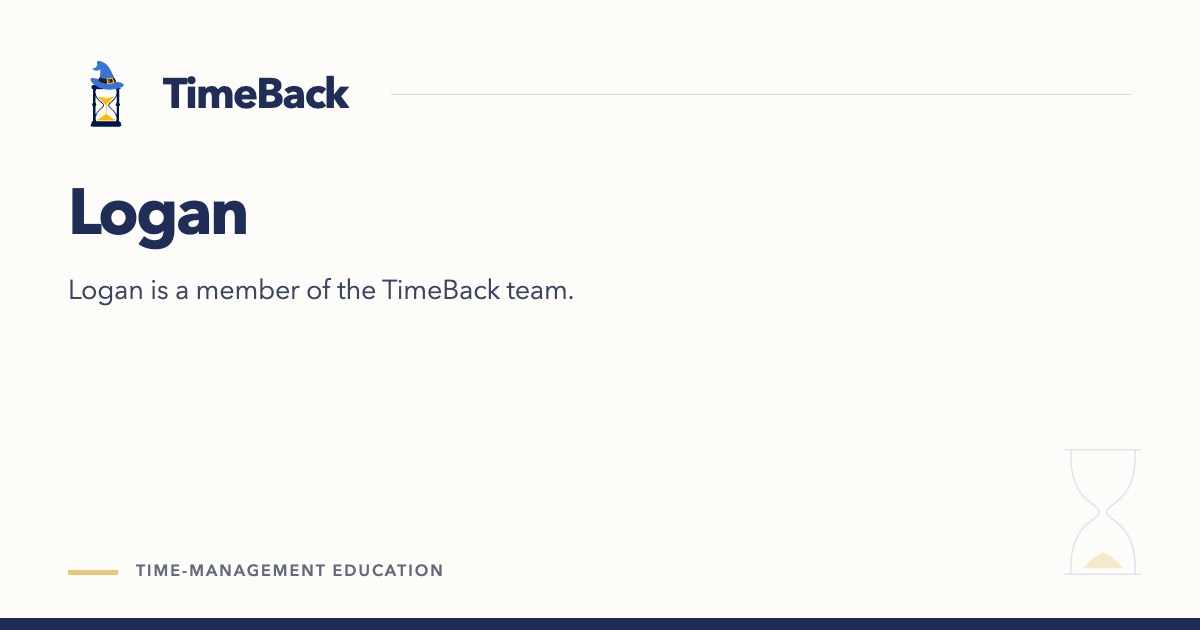
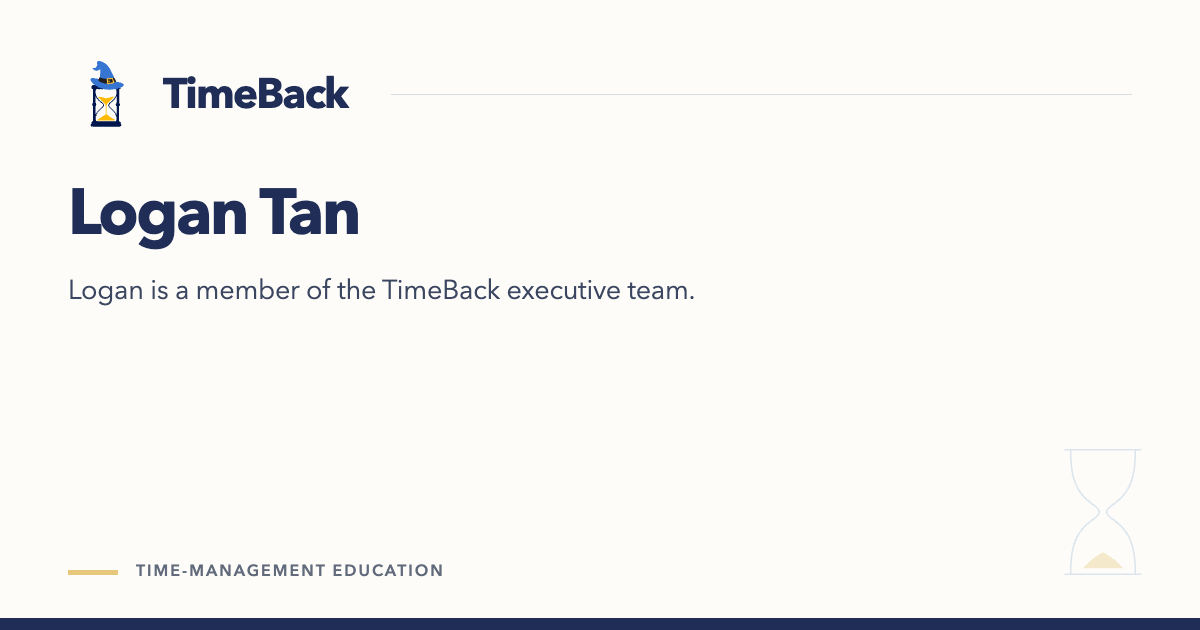
Add Daniel Szeto and Eric portrait; complete team names

Changed region(s): [[0.2158, 0.2714, 0.3083, 0.3921], [0.4008, 0.4524, 0.5858, 0.4825]]

diff --git a/work/redwood-city-library/index.html b/work/redwood-city-library/index.html
@@ -2,7 +2,7 @@
 <html lang="en"><head><meta charset="utf-8"><meta name="viewport" content="width=device-width, initial-scale=1"><meta name="robots" content="index,follow,max-image-preview:large"><title>Redwood City Public Library · TimeBack</title><meta name="description" content="A workshop in the Teen Center’s homework room brought time-management ideas into a shared conversation."><meta name="theme-color" content="#202e57"><meta property="og:title" content="Redwood City Public Library · TimeBack"><meta property="og:description" content="A workshop in the Teen Center’s homework room brought time-management ideas into a shared conversation."><meta property="og:type" content="website"><link rel="icon" type="image/svg+xml" href="/assets/timeback-logo.svg"><link rel="stylesheet" href="/assets/site.css?v=ac8a8d66ccf2"><script src="/assets/site.js?v=d495cea66d2d" defer></script><meta property="og:site_name" content="TimeBack"><meta property="og:locale" content="en_US"><meta property="og:image" content="https://jointimeback.org/assets/social/work-redwood-city-library.png"><meta property="og:image:width" content="1200"><meta property="og:image:height" content="630"><meta property="og:image:type" content="image/png"><meta property="og:image:alt" content="Redwood City Public Library · TimeBack: A workshop in the Teen Center’s homework room brought time-management ideas into a shared conversation."><meta name="twitter:card" content="summary_large_image"><meta name="twitter:title" content="Redwood City Public Library · TimeBack"><meta name="twitter:description" content="A workshop in the Teen Center’s homework room brought time-management ideas into a shared conversation."><meta name="twitter:image" content="https://jointimeback.org/assets/social/work-redwood-city-library.png"><meta name="twitter:image:alt" content="Redwood City Public Library · TimeBack: A workshop in the Teen Center’s homework room brought time-management ideas into a shared conversation."><link rel="icon" type="image/png" sizes="32x32" href="/assets/icons/favicon-32.png"><link rel="apple-touch-icon" sizes="180x180" href="/assets/icons/apple-touch-icon.png"><link rel="canonical" href="https://jointimeback.org/work/redwood-city-library/"><meta property="og:url" content="https://jointimeback.org/work/redwood-city-library/"><script type="application/ld+json">{"@context": "https://schema.org", "@graph": [{"@type": "Organization", "@id": "https://jointimeback.org/#organization", "name": "TimeBack", "url": "https://jointimeback.org/", "email": "zackaryxu@jointimeback.org", "logo": "https://jointimeback.org/assets/icons/organization.png"}, {"@type": "WebSite", "@id": "https://jointimeback.org/#website", "url": "https://jointimeback.org/", "name": "TimeBack", "publisher": {"@id": "https://jointimeback.org/#organization"}, "inLanguage": "en"}, {"@type": "WebPage", "@id": "https://jointimeback.org/work/redwood-city-library/#webpage", "url": "https://jointimeback.org/work/redwood-city-library/", "name": "Redwood City Public Library · TimeBack", "description": "A workshop in the Teen Center’s homework room brought time-management ideas into a shared conversation.", "isPartOf": {"@id": "https://jointimeback.org/#website"}, "about": {"@id": "https://jointimeback.org/#organization"}, "inLanguage": "en"}]}</script></head>
 <body class="page-work/redwood-city-library"><a class="skip-link" href="#main">Skip to content</a>
 <header class="site-header"><div class="header-inner"><a class="brand" href="/" aria-label="TimeBack home"><img src="/assets/timeback-logo.svg" width="40" height="48" alt="">TimeBack</a><nav class="desktop-nav" aria-label="Main navigation"><a href="/about/">Our Team</a><a href="/work/" class="nav-section-current">Community Highlights</a><details class="nav-group"><summary>For Organizations<span class="nav-chevron" aria-hidden="true"></span></summary><div class="nav-submenu"><a href="/host/">Work with TimeBack</a><a href="/approach/">Our Approach</a></div></details><a href="/chapters/" class="nav-cta">Get Involved</a></nav><details class="mobile-menu"><summary>Menu</summary><nav aria-label="Mobile navigation"><a href="/about/">Our Team</a><a href="/work/" class="nav-section-current">Community Highlights</a><details class="nav-group"><summary>For Organizations<span class="nav-chevron" aria-hidden="true"></span></summary><div class="nav-submenu"><a href="/host/">Work with TimeBack</a><a href="/approach/">Our Approach</a></div></details><a href="/chapters/" class="nav-cta">Get Involved</a></nav></details></div></header>
-<main id="main"><header class="page-intro wrap venue-intro"><a class="back-link" href="/work/">← Community Highlights</a><h1>Redwood City Public Library</h1><p class="lead">Redwood City, California</p></header><div class="page-content wrap venue-content"><section class="session-story" id="rwc-2026-09-10" aria-labelledby="rwc-2026-09-10-title"><div class="session-heading"><p class="story-meta"><time datetime="2026-09-10">September 10, 2026</time></p><h2 id="rwc-2026-09-10-title">Making room for what matters</h2></div><div class="session-body"><div class="session-copy"><p>Students explored priorities through a hands-on demonstration and discussion. The Teen Center’s homework room offered a focused setting for questions and ideas.</p></div><p class="session-credit">Led by <a href="/about/zackary-xu/">Zackary Xu</a>, <a href="/about/brandon-axelson/">Brandon Axelson</a>, <a href="/about/eric/">Eric</a>, <a href="/about/logan/">Logan</a>.</p><p class="session-reference"><a href="https://www.redwoodcity.org/Home/Components/Calendar/Event/100087/2638?widgetId=5678">The library’s event listing <span class="link-arrow" aria-hidden="true"><svg viewBox="0 0 24 24" width="20" height="20" focusable="false" fill="none" stroke="currentColor" stroke-width="1.6" stroke-linecap="round" stroke-linejoin="round"><path d="M6 18 18 6M6 6h12v12"/></svg></span></a></p></div><div class="session-gallery"><figure class="editorial-figure"><div class="photo-frame"><div class="photo-window photo-window--detail" data-photo="rwc-workshop" style="--photo-ratio:4/3;--photo-x:50%;--photo-y:50%;--photo-zoom:1;--photo-grade:brightness(1.055) contrast(1.025) saturate(0.96)"><img class="editorial-image" src="/assets/photos/rwc-workshop-640.webp" srcset="/assets/photos/rwc-workshop-320.webp 320w, /assets/photos/rwc-workshop-640.webp 640w, /assets/photos/rwc-workshop-1280.webp 1280w, /assets/photos/rwc-workshop-1600.webp 1600w" sizes="(max-width: 760px) 90vw, 520px" width="640" height="480" alt="TimeBack presenters discussing priorities with students." loading="lazy" decoding="async"></div></div><figcaption>A conversation about priorities in the Teen Center.</figcaption></figure><figure class="editorial-figure"><div class="photo-frame"><div class="photo-window photo-window--detail" data-photo="rwc-materials" style="--photo-ratio:4/3;--photo-x:57%;--photo-y:53%;--photo-zoom:1.12;--photo-grade:brightness(1.055) contrast(1.025) saturate(0.96)"><img class="editorial-image" src="/assets/photos/rwc-materials-640.webp" srcset="/assets/photos/rwc-materials-320.webp 320w, /assets/photos/rwc-materials-640.webp 640w, /assets/photos/rwc-materials-1280.webp 1280w, /assets/photos/rwc-materials-1600.webp 1600w" sizes="(max-width: 760px) 90vw, 520px" width="640" height="853" alt="A container of activity materials beside a worksheet." loading="lazy" decoding="async"></div></div><figcaption>Workshop materials used to make priorities tangible.</figcaption></figure></div></section><section class="highlights-invitation"><div><h2>Bring TimeBack to your community.</h2><p>Lead a local chapter or welcome a workshop to your organization.</p></div><div class="action-row"><a class="button" href="/chapters/#chapter-leadership">Start a chapter <span class="link-arrow" aria-hidden="true"><svg viewBox="0 0 24 24" width="20" height="20" focusable="false" fill="none" stroke="currentColor" stroke-width="1.6" stroke-linecap="round" stroke-linejoin="round"><path d="M6 18 18 6M6 6h12v12"/></svg></span></a><a class="text-link" href="/host/">Work with TimeBack</a></div></section></div></main>
+<main id="main"><header class="page-intro wrap venue-intro"><a class="back-link" href="/work/">← Community Highlights</a><h1>Redwood City Public Library</h1><p class="lead">Redwood City, California</p></header><div class="page-content wrap venue-content"><section class="session-story" id="rwc-2026-09-10" aria-labelledby="rwc-2026-09-10-title"><div class="session-heading"><p class="story-meta"><time datetime="2026-09-10">September 10, 2026</time></p><h2 id="rwc-2026-09-10-title">Making room for what matters</h2></div><div class="session-body"><div class="session-copy"><p>Students explored priorities through a hands-on demonstration and discussion. The Teen Center’s homework room offered a focused setting for questions and ideas.</p></div><p class="session-credit">Led by <a href="/about/zackary-xu/">Zackary Xu</a>, <a href="/about/brandon-axelson/">Brandon Axelson</a>, <a href="/about/eric/">Eric Fu</a>, <a href="/about/logan/">Logan Tan</a>.</p><p class="session-reference"><a href="https://www.redwoodcity.org/Home/Components/Calendar/Event/100087/2638?widgetId=5678">The library’s event listing <span class="link-arrow" aria-hidden="true"><svg viewBox="0 0 24 24" width="20" height="20" focusable="false" fill="none" stroke="currentColor" stroke-width="1.6" stroke-linecap="round" stroke-linejoin="round"><path d="M6 18 18 6M6 6h12v12"/></svg></span></a></p></div><div class="session-gallery"><figure class="editorial-figure"><div class="photo-frame"><div class="photo-window photo-window--detail" data-photo="rwc-workshop" style="--photo-ratio:4/3;--photo-x:50%;--photo-y:50%;--photo-zoom:1;--photo-grade:brightness(1.055) contrast(1.025) saturate(0.96)"><img class="editorial-image" src="/assets/photos/rwc-workshop-640.webp" srcset="/assets/photos/rwc-workshop-320.webp 320w, /assets/photos/rwc-workshop-640.webp 640w, /assets/photos/rwc-workshop-1280.webp 1280w, /assets/photos/rwc-workshop-1600.webp 1600w" sizes="(max-width: 760px) 90vw, 520px" width="640" height="480" alt="TimeBack presenters discussing priorities with students." loading="lazy" decoding="async"></div></div><figcaption>A conversation about priorities in the Teen Center.</figcaption></figure><figure class="editorial-figure"><div class="photo-frame"><div class="photo-window photo-window--detail" data-photo="rwc-materials" style="--photo-ratio:4/3;--photo-x:57%;--photo-y:53%;--photo-zoom:1.12;--photo-grade:brightness(1.055) contrast(1.025) saturate(0.96)"><img class="editorial-image" src="/assets/photos/rwc-materials-640.webp" srcset="/assets/photos/rwc-materials-320.webp 320w, /assets/photos/rwc-materials-640.webp 640w, /assets/photos/rwc-materials-1280.webp 1280w, /assets/photos/rwc-materials-1600.webp 1600w" sizes="(max-width: 760px) 90vw, 520px" width="640" height="853" alt="A container of activity materials beside a worksheet." loading="lazy" decoding="async"></div></div><figcaption>Workshop materials used to make priorities tangible.</figcaption></figure></div></section><section class="highlights-invitation"><div><h2>Bring TimeBack to your community.</h2><p>Lead a local chapter or welcome a workshop to your organization.</p></div><div class="action-row"><a class="button" href="/chapters/#chapter-leadership">Start a chapter <span class="link-arrow" aria-hidden="true"><svg viewBox="0 0 24 24" width="20" height="20" focusable="false" fill="none" stroke="currentColor" stroke-width="1.6" stroke-linecap="round" stroke-linejoin="round"><path d="M6 18 18 6M6 6h12v12"/></svg></span></a><a class="text-link" href="/host/">Work with TimeBack</a></div></section></div></main>
 <footer class="site-footer"><div class="footer-inner wrap"><a class="brand footer-brand" href="/"><img src="/assets/timeback-logo.svg" width="30" height="36" alt="">TimeBack</a><nav class="footer-links" aria-label="Footer"><a href="/about/">Our Team</a><a href="/work/">Community Highlights</a><a href="/host/">For Organizations</a><a href="/chapters/">Get Involved</a><a href="mailto:zackaryxu@jointimeback.org?subject=TimeBack%20inquiry&amp;body=Hi%20Zackary%2C%0D%0A%0D%0AI%20came%20across%20the%20TimeBack%20website%20and%20would%20like%20to%20learn%20more.%20Could%20we%20connect%3F%0D%0A%0D%0AThanks%21">Contact</a></nav></div></footer><dialog class="contact-panel" id="contact-panel" aria-labelledby="contact-panel-title" aria-describedby="contact-panel-description">
   <div class="contact-panel-heading">
     <h2 id="contact-panel-title">Contact TimeBack</h2>

diff --git a/about/eric/index.html b/about/eric/index.html
@@ -1,8 +1,8 @@
 <!doctype html>
-<html lang="en"><head><meta charset="utf-8"><meta name="viewport" content="width=device-width, initial-scale=1"><meta name="robots" content="index,follow,max-image-preview:large"><title>Eric · TimeBack</title><meta name="description" content="Eric is a member of the TimeBack team."><meta name="theme-color" content="#202e57"><meta property="og:title" content="Eric · TimeBack"><meta property="og:description" content="Eric is a member of the TimeBack team."><meta property="og:type" content="website"><link rel="icon" type="image/svg+xml" href="/assets/timeback-logo.svg"><link rel="stylesheet" href="/assets/site.css?v=ac8a8d66ccf2"><script src="/assets/site.js?v=d495cea66d2d" defer></script><meta property="og:site_name" content="TimeBack"><meta property="og:locale" content="en_US"><meta property="og:image" content="https://jointimeback.org/assets/social/about-eric.png"><meta property="og:image:width" content="1200"><meta property="og:image:height" content="630"><meta property="og:image:type" content="image/png"><meta property="og:image:alt" content="Eric · TimeBack: Eric is a member of the TimeBack team."><meta name="twitter:card" content="summary_large_image"><meta name="twitter:title" content="Eric · TimeBack"><meta name="twitter:description" content="Eric is a member of the TimeBack team."><meta name="twitter:image" content="https://jointimeback.org/assets/social/about-eric.png"><meta name="twitter:image:alt" content="Eric · TimeBack: Eric is a member of the TimeBack team."><link rel="icon" type="image/png" sizes="32x32" href="/assets/icons/favicon-32.png"><link rel="apple-touch-icon" sizes="180x180" href="/assets/icons/apple-touch-icon.png"><link rel="canonical" href="https://jointimeback.org/about/eric/"><meta property="og:url" content="https://jointimeback.org/about/eric/"><script type="application/ld+json">{"@context": "https://schema.org", "@graph": [{"@type": "Organization", "@id": "https://jointimeback.org/#organization", "name": "TimeBack", "url": "https://jointimeback.org/", "email": "zackaryxu@jointimeback.org", "logo": "https://jointimeback.org/assets/icons/organization.png"}, {"@type": "WebSite", "@id": "https://jointimeback.org/#website", "url": "https://jointimeback.org/", "name": "TimeBack", "publisher": {"@id": "https://jointimeback.org/#organization"}, "inLanguage": "en"}, {"@type": "WebPage", "@id": "https://jointimeback.org/about/eric/#webpage", "url": "https://jointimeback.org/about/eric/", "name": "Eric · TimeBack", "description": "Eric is a member of the TimeBack team.", "isPartOf": {"@id": "https://jointimeback.org/#website"}, "about": {"@id": "https://jointimeback.org/#organization"}, "inLanguage": "en"}]}</script></head>
+<html lang="en"><head><meta charset="utf-8"><meta name="viewport" content="width=device-width, initial-scale=1"><meta name="robots" content="index,follow,max-image-preview:large"><title>Eric Fu · TimeBack</title><meta name="description" content="Eric is a member of the TimeBack executive team."><meta name="theme-color" content="#202e57"><meta property="og:title" content="Eric Fu · TimeBack"><meta property="og:description" content="Eric is a member of the TimeBack executive team."><meta property="og:type" content="website"><link rel="icon" type="image/svg+xml" href="/assets/timeback-logo.svg"><link rel="stylesheet" href="/assets/site.css?v=ac8a8d66ccf2"><script src="/assets/site.js?v=d495cea66d2d" defer></script><meta property="og:site_name" content="TimeBack"><meta property="og:locale" content="en_US"><meta property="og:image" content="https://jointimeback.org/assets/social/about-eric.png"><meta property="og:image:width" content="1200"><meta property="og:image:height" content="630"><meta property="og:image:type" content="image/png"><meta property="og:image:alt" content="Eric Fu · TimeBack: Eric is a member of the TimeBack executive team."><meta name="twitter:card" content="summary_large_image"><meta name="twitter:title" content="Eric Fu · TimeBack"><meta name="twitter:description" content="Eric is a member of the TimeBack executive team."><meta name="twitter:image" content="https://jointimeback.org/assets/social/about-eric.png"><meta name="twitter:image:alt" content="Eric Fu · TimeBack: Eric is a member of the TimeBack executive team."><link rel="icon" type="image/png" sizes="32x32" href="/assets/icons/favicon-32.png"><link rel="apple-touch-icon" sizes="180x180" href="/assets/icons/apple-touch-icon.png"><link rel="canonical" href="https://jointimeback.org/about/eric/"><meta property="og:url" content="https://jointimeback.org/about/eric/"><script type="application/ld+json">{"@context": "https://schema.org", "@graph": [{"@type": "Organization", "@id": "https://jointimeback.org/#organization", "name": "TimeBack", "url": "https://jointimeback.org/", "email": "zackaryxu@jointimeback.org", "logo": "https://jointimeback.org/assets/icons/organization.png"}, {"@type": "WebSite", "@id": "https://jointimeback.org/#website", "url": "https://jointimeback.org/", "name": "TimeBack", "publisher": {"@id": "https://jointimeback.org/#organization"}, "inLanguage": "en"}, {"@type": "WebPage", "@id": "https://jointimeback.org/about/eric/#webpage", "url": "https://jointimeback.org/about/eric/", "name": "Eric Fu · TimeBack", "description": "Eric is a member of the TimeBack executive team.", "isPartOf": {"@id": "https://jointimeback.org/#website"}, "about": {"@id": "https://jointimeback.org/#organization"}, "inLanguage": "en"}]}</script></head>
 <body class="page-about/eric"><a class="skip-link" href="#main">Skip to content</a>
 <header class="site-header"><div class="header-inner"><a class="brand" href="/" aria-label="TimeBack home"><img src="/assets/timeback-logo.svg" width="40" height="48" alt="">TimeBack</a><nav class="desktop-nav" aria-label="Main navigation"><a href="/about/" class="nav-section-current">Our Team</a><a href="/work/">Community Highlights</a><details class="nav-group"><summary>For Organizations<span class="nav-chevron" aria-hidden="true"></span></summary><div class="nav-submenu"><a href="/host/">Work with TimeBack</a><a href="/approach/">Our Approach</a></div></details><a href="/chapters/" class="nav-cta">Get Involved</a></nav><details class="mobile-menu"><summary>Menu</summary><nav aria-label="Mobile navigation"><a href="/about/" class="nav-section-current">Our Team</a><a href="/work/">Community Highlights</a><details class="nav-group"><summary>For Organizations<span class="nav-chevron" aria-hidden="true"></span></summary><div class="nav-submenu"><a href="/host/">Work with TimeBack</a><a href="/approach/">Our Approach</a></div></details><a href="/chapters/" class="nav-cta">Get Involved</a></nav></details></div></header>
-<main id="main"><header class="page-intro wrap"><a class="back-link" href="/about/">← Our Team</a><h1>Eric</h1><p class="lead">Team Member</p></header><div class="page-content wrap"><section class="prose-section profile-introduction"><div><h2>At TimeBack</h2></div><div class="reading-copy"><p>Eric is a member of the TimeBack team.</p></div></section><section class="prose-section"><h2>Work with the team.</h2><ul class="quiet-list"><li><a href="/work/redwood-city-library/#rwc-2026-09-10">Redwood City Public Library</a><br><span class="venue-meta">September 10, 2026</span></li></ul></section></div></main>
+<main id="main"><header class="page-intro wrap"><a class="back-link" href="/about/">← Our Team</a><h1>Eric Fu</h1><p class="lead">Executive Team</p></header><div class="page-content wrap"><section class="prose-section profile-introduction"><div><div class="person-portrait"><div class="photo-window photo-window--portrait" data-photo="eric-fu" style="--photo-ratio:4/5;--photo-x:50%;--photo-y:50%;--photo-zoom:1;--photo-grade:brightness(1) contrast(1) saturate(1)"><img class="editorial-image" src="/assets/photos/eric-fu-497.webp" srcset="/assets/photos/eric-fu-320.webp 320w, /assets/photos/eric-fu-497.webp 497w" sizes="300px" width="497" height="626" alt="Eric Fu, TimeBack executive team member." loading="lazy" decoding="async"></div></div><h2>At TimeBack</h2></div><div class="reading-copy"><p>Eric is a member of the TimeBack executive team.</p></div></section><section class="prose-section"><h2>Work with the team.</h2><ul class="quiet-list"><li><a href="/work/redwood-city-library/#rwc-2026-09-10">Redwood City Public Library</a><br><span class="venue-meta">September 10, 2026</span></li></ul></section></div></main>
 <footer class="site-footer"><div class="footer-inner wrap"><a class="brand footer-brand" href="/"><img src="/assets/timeback-logo.svg" width="30" height="36" alt="">TimeBack</a><nav class="footer-links" aria-label="Footer"><a href="/about/">Our Team</a><a href="/work/">Community Highlights</a><a href="/host/">For Organizations</a><a href="/chapters/">Get Involved</a><a href="mailto:zackaryxu@jointimeback.org?subject=TimeBack%20inquiry&amp;body=Hi%20Zackary%2C%0D%0A%0D%0AI%20came%20across%20the%20TimeBack%20website%20and%20would%20like%20to%20learn%20more.%20Could%20we%20connect%3F%0D%0A%0D%0AThanks%21">Contact</a></nav></div></footer><dialog class="contact-panel" id="contact-panel" aria-labelledby="contact-panel-title" aria-describedby="contact-panel-description">
   <div class="contact-panel-heading">
     <h2 id="contact-panel-title">Contact TimeBack</h2>

diff --git a/about/daniel-szeto/index.html b/about/daniel-szeto/index.html
@@ -1,8 +1,8 @@
 <!doctype html>
-<html lang="en"><head><meta charset="utf-8"><meta name="viewport" content="width=device-width, initial-scale=1"><meta name="robots" content="index,follow,max-image-preview:large"><title>Logan Tan · TimeBack</title><meta name="description" content="Logan is a member of the TimeBack executive team."><meta name="theme-color" content="#202e57"><meta property="og:title" content="Logan Tan · TimeBack"><meta property="og:description" content="Logan is a member of the TimeBack executive team."><meta property="og:type" content="website"><link rel="icon" type="image/svg+xml" href="/assets/timeback-logo.svg"><link rel="stylesheet" href="/assets/site.css?v=ac8a8d66ccf2"><script src="/assets/site.js?v=d495cea66d2d" defer></script><meta property="og:site_name" content="TimeBack"><meta property="og:locale" content="en_US"><meta property="og:image" content="https://jointimeback.org/assets/social/about-logan.png"><meta property="og:image:width" content="1200"><meta property="og:image:height" content="630"><meta property="og:image:type" content="image/png"><meta property="og:image:alt" content="Logan Tan · TimeBack: Logan is a member of the TimeBack executive team."><meta name="twitter:card" content="summary_large_image"><meta name="twitter:title" content="Logan Tan · TimeBack"><meta name="twitter:description" content="Logan is a member of the TimeBack executive team."><meta name="twitter:image" content="https://jointimeback.org/assets/social/about-logan.png"><meta name="twitter:image:alt" content="Logan Tan · TimeBack: Logan is a member of the TimeBack executive team."><link rel="icon" type="image/png" sizes="32x32" href="/assets/icons/favicon-32.png"><link rel="apple-touch-icon" sizes="180x180" href="/assets/icons/apple-touch-icon.png"><link rel="canonical" href="https://jointimeback.org/about/logan/"><meta property="og:url" content="https://jointimeback.org/about/logan/"><script type="application/ld+json">{"@context": "https://schema.org", "@graph": [{"@type": "Organization", "@id": "https://jointimeback.org/#organization", "name": "TimeBack", "url": "https://jointimeback.org/", "email": "zackaryxu@jointimeback.org", "logo": "https://jointimeback.org/assets/icons/organization.png"}, {"@type": "WebSite", "@id": "https://jointimeback.org/#website", "url": "https://jointimeback.org/", "name": "TimeBack", "publisher": {"@id": "https://jointimeback.org/#organization"}, "inLanguage": "en"}, {"@type": "WebPage", "@id": "https://jointimeback.org/about/logan/#webpage", "url": "https://jointimeback.org/about/logan/", "name": "Logan Tan · TimeBack", "description": "Logan is a member of the TimeBack executive team.", "isPartOf": {"@id": "https://jointimeback.org/#website"}, "about": {"@id": "https://jointimeback.org/#organization"}, "inLanguage": "en"}]}</script></head>
-<body class="page-about/logan"><a class="skip-link" href="#main">Skip to content</a>
+<html lang="en"><head><meta charset="utf-8"><meta name="viewport" content="width=device-width, initial-scale=1"><meta name="robots" content="index,follow,max-image-preview:large"><title>Daniel Szeto · TimeBack</title><meta name="description" content="Daniel is a member of the TimeBack executive team."><meta name="theme-color" content="#202e57"><meta property="og:title" content="Daniel Szeto · TimeBack"><meta property="og:description" content="Daniel is a member of the TimeBack executive team."><meta property="og:type" content="website"><link rel="icon" type="image/svg+xml" href="/assets/timeback-logo.svg"><link rel="stylesheet" href="/assets/site.css?v=ac8a8d66ccf2"><script src="/assets/site.js?v=d495cea66d2d" defer></script><meta property="og:site_name" content="TimeBack"><meta property="og:locale" content="en_US"><meta property="og:image" content="https://jointimeback.org/assets/social/about-daniel-szeto.png"><meta property="og:image:width" content="1200"><meta property="og:image:height" content="630"><meta property="og:image:type" content="image/png"><meta property="og:image:alt" content="Daniel Szeto · TimeBack: Daniel is a member of the TimeBack executive team."><meta name="twitter:card" content="summary_large_image"><meta name="twitter:title" content="Daniel Szeto · TimeBack"><meta name="twitter:description" content="Daniel is a member of the TimeBack executive team."><meta name="twitter:image" content="https://jointimeback.org/assets/social/about-daniel-szeto.png"><meta name="twitter:image:alt" content="Daniel Szeto · TimeBack: Daniel is a member of the TimeBack executive team."><link rel="icon" type="image/png" sizes="32x32" href="/assets/icons/favicon-32.png"><link rel="apple-touch-icon" sizes="180x180" href="/assets/icons/apple-touch-icon.png"><link rel="canonical" href="https://jointimeback.org/about/daniel-szeto/"><meta property="og:url" content="https://jointimeback.org/about/daniel-szeto/"><script type="application/ld+json">{"@context": "https://schema.org", "@graph": [{"@type": "Organization", "@id": "https://jointimeback.org/#organization", "name": "TimeBack", "url": "https://jointimeback.org/", "email": "zackaryxu@jointimeback.org", "logo": "https://jointimeback.org/assets/icons/organization.png"}, {"@type": "WebSite", "@id": "https://jointimeback.org/#website", "url": "https://jointimeback.org/", "name": "TimeBack", "publisher": {"@id": "https://jointimeback.org/#organization"}, "inLanguage": "en"}, {"@type": "WebPage", "@id": "https://jointimeback.org/about/daniel-szeto/#webpage", "url": "https://jointimeback.org/about/daniel-szeto/", "name": "Daniel Szeto · TimeBack", "description": "Daniel is a member of the TimeBack executive team.", "isPartOf": {"@id": "https://jointimeback.org/#website"}, "about": {"@id": "https://jointimeback.org/#organization"}, "inLanguage": "en"}]}</script></head>
+<body class="page-about/daniel-szeto"><a class="skip-link" href="#main">Skip to content</a>
 <header class="site-header"><div class="header-inner"><a class="brand" href="/" aria-label="TimeBack home"><img src="/assets/timeback-logo.svg" width="40" height="48" alt="">TimeBack</a><nav class="desktop-nav" aria-label="Main navigation"><a href="/about/" class="nav-section-current">Our Team</a><a href="/work/">Community Highlights</a><details class="nav-group"><summary>For Organizations<span class="nav-chevron" aria-hidden="true"></span></summary><div class="nav-submenu"><a href="/host/">Work with TimeBack</a><a href="/approach/">Our Approach</a></div></details><a href="/chapters/" class="nav-cta">Get Involved</a></nav><details class="mobile-menu"><summary>Menu</summary><nav aria-label="Mobile navigation"><a href="/about/" class="nav-section-current">Our Team</a><a href="/work/">Community Highlights</a><details class="nav-group"><summary>For Organizations<span class="nav-chevron" aria-hidden="true"></span></summary><div class="nav-submenu"><a href="/host/">Work with TimeBack</a><a href="/approach/">Our Approach</a></div></details><a href="/chapters/" class="nav-cta">Get Involved</a></nav></details></div></header>
-<main id="main"><header class="page-intro wrap"><a class="back-link" href="/about/">← Our Team</a><h1>Logan Tan</h1><p class="lead">Executive Team</p></header><div class="page-content wrap"><section class="prose-section profile-introduction"><div><h2>At TimeBack</h2></div><div class="reading-copy"><p>Logan is a member of the TimeBack executive team.</p></div></section><section class="prose-section"><h2>Work with the team.</h2><ul class="quiet-list"><li><a href="/work/redwood-city-library/#rwc-2026-09-10">Redwood City Public Library</a><br><span class="venue-meta">September 10, 2026</span></li></ul></section></div></main>
+<main id="main"><header class="page-intro wrap"><a class="back-link" href="/about/">← Our Team</a><h1>Daniel Szeto</h1><p class="lead">Executive Team</p></header><div class="page-content wrap"><section class="prose-section profile-introduction"><div><h2>At TimeBack</h2></div><div class="reading-copy"><p>Daniel is a member of the TimeBack executive team.</p></div></section></div></main>
 <footer class="site-footer"><div class="footer-inner wrap"><a class="brand footer-brand" href="/"><img src="/assets/timeback-logo.svg" width="30" height="36" alt="">TimeBack</a><nav class="footer-links" aria-label="Footer"><a href="/about/">Our Team</a><a href="/work/">Community Highlights</a><a href="/host/">For Organizations</a><a href="/chapters/">Get Involved</a><a href="mailto:zackaryxu@jointimeback.org?subject=TimeBack%20inquiry&amp;body=Hi%20Zackary%2C%0D%0A%0D%0AI%20came%20across%20the%20TimeBack%20website%20and%20would%20like%20to%20learn%20more.%20Could%20we%20connect%3F%0D%0A%0D%0AThanks%21">Contact</a></nav></div></footer><dialog class="contact-panel" id="contact-panel" aria-labelledby="contact-panel-title" aria-describedby="contact-panel-description">
   <div class="contact-panel-heading">
     <h2 id="contact-panel-title">Contact TimeBack</h2>

diff --git a/about/brandon-axelson/index.html b/about/brandon-axelson/index.html
@@ -2,7 +2,7 @@
 <html lang="en"><head><meta charset="utf-8"><meta name="viewport" content="width=device-width, initial-scale=1"><meta name="robots" content="index,follow,max-image-preview:large"><title>Brandon Axelson · TimeBack</title><meta name="description" content="Brandon helps run TimeBack workshops, guiding students through activities and discussions about priorities, focus and planning."><meta name="theme-color" content="#202e57"><meta property="og:title" content="Brandon Axelson · TimeBack"><meta property="og:description" content="Brandon helps run TimeBack workshops, guiding students through activities and discussions about priorities, focus and planning."><meta property="og:type" content="website"><link rel="icon" type="image/svg+xml" href="/assets/timeback-logo.svg"><link rel="stylesheet" href="/assets/site.css?v=ac8a8d66ccf2"><script src="/assets/site.js?v=d495cea66d2d" defer></script><meta property="og:site_name" content="TimeBack"><meta property="og:locale" content="en_US"><meta property="og:image" content="https://jointimeback.org/assets/social/about-brandon-axelson.png"><meta property="og:image:width" content="1200"><meta property="og:image:height" content="630"><meta property="og:image:type" content="image/png"><meta property="og:image:alt" content="Brandon Axelson · TimeBack: Brandon helps run TimeBack workshops, guiding students through activities and discussions about priorities, focus and planning."><meta name="twitter:card" content="summary_large_image"><meta name="twitter:title" content="Brandon Axelson · TimeBack"><meta name="twitter:description" content="Brandon helps run TimeBack workshops, guiding students through activities and discussions about priorities, focus and planning."><meta name="twitter:image" content="https://jointimeback.org/assets/social/about-brandon-axelson.png"><meta name="twitter:image:alt" content="Brandon Axelson · TimeBack: Brandon helps run TimeBack workshops, guiding students through activities and discussions about priorities, focus and planning."><link rel="icon" type="image/png" sizes="32x32" href="/assets/icons/favicon-32.png"><link rel="apple-touch-icon" sizes="180x180" href="/assets/icons/apple-touch-icon.png"><link rel="canonical" href="https://jointimeback.org/about/brandon-axelson/"><meta property="og:url" content="https://jointimeback.org/about/brandon-axelson/"><script type="application/ld+json">{"@context": "https://schema.org", "@graph": [{"@type": "Organization", "@id": "https://jointimeback.org/#organization", "name": "TimeBack", "url": "https://jointimeback.org/", "email": "zackaryxu@jointimeback.org", "logo": "https://jointimeback.org/assets/icons/organization.png"}, {"@type": "WebSite", "@id": "https://jointimeback.org/#website", "url": "https://jointimeback.org/", "name": "TimeBack", "publisher": {"@id": "https://jointimeback.org/#organization"}, "inLanguage": "en"}, {"@type": "WebPage", "@id": "https://jointimeback.org/about/brandon-axelson/#webpage", "url": "https://jointimeback.org/about/brandon-axelson/", "name": "Brandon Axelson · TimeBack", "description": "Brandon helps run TimeBack workshops, guiding students through activities and discussions about priorities, focus and planning.", "isPartOf": {"@id": "https://jointimeback.org/#website"}, "about": {"@id": "https://jointimeback.org/#organization"}, "inLanguage": "en"}]}</script></head>
 <body class="page-about/brandon-axelson"><a class="skip-link" href="#main">Skip to content</a>
 <header class="site-header"><div class="header-inner"><a class="brand" href="/" aria-label="TimeBack home"><img src="/assets/timeback-logo.svg" width="40" height="48" alt="">TimeBack</a><nav class="desktop-nav" aria-label="Main navigation"><a href="/about/" class="nav-section-current">Our Team</a><a href="/work/">Community Highlights</a><details class="nav-group"><summary>For Organizations<span class="nav-chevron" aria-hidden="true"></span></summary><div class="nav-submenu"><a href="/host/">Work with TimeBack</a><a href="/approach/">Our Approach</a></div></details><a href="/chapters/" class="nav-cta">Get Involved</a></nav><details class="mobile-menu"><summary>Menu</summary><nav aria-label="Mobile navigation"><a href="/about/" class="nav-section-current">Our Team</a><a href="/work/">Community Highlights</a><details class="nav-group"><summary>For Organizations<span class="nav-chevron" aria-hidden="true"></span></summary><div class="nav-submenu"><a href="/host/">Work with TimeBack</a><a href="/approach/">Our Approach</a></div></details><a href="/chapters/" class="nav-cta">Get Involved</a></nav></details></div></header>
-<main id="main"><header class="page-intro wrap"><a class="back-link" href="/about/">← Our Team</a><h1>Brandon Axelson</h1><p class="lead">Team Member</p></header><div class="page-content wrap"><section class="prose-section profile-introduction"><div><h2>At TimeBack</h2></div><div class="reading-copy"><p>Brandon helps run TimeBack workshops, guiding students through activities and discussions about priorities, focus and planning.</p></div></section><section class="prose-section"><h2>Work with the team.</h2><ul class="quiet-list"><li><a href="/work/redwood-city-library/#rwc-2026-09-10">Redwood City Public Library</a><br><span class="venue-meta">September 10, 2026</span></li><li><a href="/work/carlmont/#carlmont-spring-2026">Carlmont High School</a><br><span class="venue-meta">Spring 2026</span></li></ul></section></div></main>
+<main id="main"><header class="page-intro wrap"><a class="back-link" href="/about/">← Our Team</a><h1>Brandon Axelson</h1><p class="lead">Executive Team</p></header><div class="page-content wrap"><section class="prose-section profile-introduction"><div><h2>At TimeBack</h2></div><div class="reading-copy"><p>Brandon helps run TimeBack workshops, guiding students through activities and discussions about priorities, focus and planning.</p></div></section><section class="prose-section"><h2>Work with the team.</h2><ul class="quiet-list"><li><a href="/work/redwood-city-library/#rwc-2026-09-10">Redwood City Public Library</a><br><span class="venue-meta">September 10, 2026</span></li><li><a href="/work/carlmont/#carlmont-spring-2026">Carlmont High School</a><br><span class="venue-meta">Spring 2026</span></li></ul></section></div></main>
 <footer class="site-footer"><div class="footer-inner wrap"><a class="brand footer-brand" href="/"><img src="/assets/timeback-logo.svg" width="30" height="36" alt="">TimeBack</a><nav class="footer-links" aria-label="Footer"><a href="/about/">Our Team</a><a href="/work/">Community Highlights</a><a href="/host/">For Organizations</a><a href="/chapters/">Get Involved</a><a href="mailto:zackaryxu@jointimeback.org?subject=TimeBack%20inquiry&amp;body=Hi%20Zackary%2C%0D%0A%0D%0AI%20came%20across%20the%20TimeBack%20website%20and%20would%20like%20to%20learn%20more.%20Could%20we%20connect%3F%0D%0A%0D%0AThanks%21">Contact</a></nav></div></footer><dialog class="contact-panel" id="contact-panel" aria-labelledby="contact-panel-title" aria-describedby="contact-panel-description">
   <div class="contact-panel-heading">
     <h2 id="contact-panel-title">Contact TimeBack</h2>

diff --git a/about/index.html b/about/index.html
@@ -3,7 +3,7 @@
 <body class="page-about"><a class="skip-link" href="#main">Skip to content</a>
 <header class="site-header"><div class="header-inner"><a class="brand" href="/" aria-label="TimeBack home"><img src="/assets/timeback-logo.svg" width="40" height="48" alt="">TimeBack</a><nav class="desktop-nav" aria-label="Main navigation"><a href="/about/" aria-current="page">Our Team</a><a href="/work/">Community Highlights</a><details class="nav-group"><summary>For Organizations<span class="nav-chevron" aria-hidden="true"></span></summary><div class="nav-submenu"><a href="/host/">Work with TimeBack</a><a href="/approach/">Our Approach</a></div></details><a href="/chapters/" class="nav-cta">Get Involved</a></nav><details class="mobile-menu"><summary>Menu</summary><nav aria-label="Mobile navigation"><a href="/about/" aria-current="page">Our Team</a><a href="/work/">Community Highlights</a><details class="nav-group"><summary>For Organizations<span class="nav-chevron" aria-hidden="true"></span></summary><div class="nav-submenu"><a href="/host/">Work with TimeBack</a><a href="/approach/">Our Approach</a></div></details><a href="/chapters/" class="nav-cta">Get Involved</a></nav></details></div></header>
 <main id="main"><header class="page-intro wrap"><h1>Our Team</h1><p class="lead">Meet the students bringing time-management education to schools and communities.</p></header><div class="page-content wrap"><section class="team-directory" aria-label="People at TimeBack">
-  <div class="team-grid"><article class="team-card" aria-labelledby="person-zackary-xu"><a class="team-profile" href="/about/zackary-xu/" aria-label="View Zackary Xu’s profile"><div class="person-portrait"><div class="photo-window photo-window--portrait" data-photo="zackary-xu" style="--photo-ratio:4/5;--photo-x:50%;--photo-y:50%;--photo-zoom:1;--photo-grade:brightness(1) contrast(1) saturate(1)"><img class="editorial-image" src="/assets/photos/zackary-xu-640.webp" srcset="/assets/photos/zackary-xu-320.webp 320w, /assets/photos/zackary-xu-640.webp 640w, /assets/photos/zackary-xu-1122.webp 1122w" sizes="(max-width: 480px) 44vw, (max-width: 760px) 46vw, 300px" width="640" height="800" alt="Zackary Xu, founder of TimeBack." loading="lazy" decoding="async"></div></div><div class="team-card-identity"><h2 id="person-zackary-xu">Zackary Xu</h2><p class="person-role">Founder</p></div></a></article><article class="team-card" aria-labelledby="person-brandon-axelson"><a class="team-profile" href="/about/brandon-axelson/" aria-label="View Brandon Axelson’s profile"><div class="person-monogram" aria-hidden="true">BA</div><div class="team-card-identity"><h2 id="person-brandon-axelson">Brandon Axelson</h2><p class="person-role">Team Member</p></div></a></article><article class="team-card" aria-labelledby="person-eric"><a class="team-profile" href="/about/eric/" aria-label="View Eric’s profile"><div class="person-monogram" aria-hidden="true">E</div><div class="team-card-identity"><h2 id="person-eric">Eric</h2><p class="person-role">Team Member</p></div></a></article><article class="team-card" aria-labelledby="person-logan"><a class="team-profile" href="/about/logan/" aria-label="View Logan’s profile"><div class="person-monogram" aria-hidden="true">L</div><div class="team-card-identity"><h2 id="person-logan">Logan</h2><p class="person-role">Team Member</p></div></a></article></div>
+  <div class="team-grid"><article class="team-card" aria-labelledby="person-zackary-xu"><a class="team-profile" href="/about/zackary-xu/" aria-label="View Zackary Xu’s profile"><div class="person-portrait"><div class="photo-window photo-window--portrait" data-photo="zackary-xu" style="--photo-ratio:4/5;--photo-x:50%;--photo-y:50%;--photo-zoom:1;--photo-grade:brightness(1) contrast(1) saturate(1)"><img class="editorial-image" src="/assets/photos/zackary-xu-640.webp" srcset="/assets/photos/zackary-xu-320.webp 320w, /assets/photos/zackary-xu-640.webp 640w, /assets/photos/zackary-xu-1122.webp 1122w" sizes="(max-width: 480px) 44vw, (max-width: 760px) 46vw, 300px" width="640" height="800" alt="Zackary Xu, founder of TimeBack." loading="lazy" decoding="async"></div></div><div class="team-card-identity"><h2 id="person-zackary-xu">Zackary Xu</h2><p class="person-role">Founder</p></div></a></article><article class="team-card" aria-labelledby="person-brandon-axelson"><a class="team-profile" href="/about/brandon-axelson/" aria-label="View Brandon Axelson’s profile"><div class="person-monogram" aria-hidden="true">BA</div><div class="team-card-identity"><h2 id="person-brandon-axelson">Brandon Axelson</h2><p class="person-role">Executive Team</p></div></a></article><article class="team-card" aria-labelledby="person-eric"><a class="team-profile" href="/about/eric/" aria-label="View Eric Fu’s profile"><div class="person-portrait"><div class="photo-window photo-window--portrait" data-photo="eric-fu" style="--photo-ratio:4/5;--photo-x:50%;--photo-y:50%;--photo-zoom:1;--photo-grade:brightness(1) contrast(1) saturate(1)"><img class="editorial-image" src="/assets/photos/eric-fu-497.webp" srcset="/assets/photos/eric-fu-320.webp 320w, /assets/photos/eric-fu-497.webp 497w" sizes="(max-width: 480px) 44vw, (max-width: 760px) 46vw, 300px" width="497" height="626" alt="Eric Fu, TimeBack executive team member." loading="lazy" decoding="async"></div></div><div class="team-card-identity"><h2 id="person-eric">Eric Fu</h2><p class="person-role">Executive Team</p></div></a></article><article class="team-card" aria-labelledby="person-logan"><a class="team-profile" href="/about/logan/" aria-label="View Logan Tan’s profile"><div class="person-monogram" aria-hidden="true">LT</div><div class="team-card-identity"><h2 id="person-logan">Logan Tan</h2><p class="person-role">Executive Team</p></div></a></article><article class="team-card" aria-labelledby="person-daniel-szeto"><a class="team-profile" href="/about/daniel-szeto/" aria-label="View Daniel Szeto’s profile"><div class="person-monogram" aria-hidden="true">DS</div><div class="team-card-identity"><h2 id="person-daniel-szeto">Daniel Szeto</h2><p class="person-role">Executive Team</p></div></a></article></div>
 </section>
 </div></main>
 <footer class="site-footer"><div class="footer-inner wrap"><a class="brand footer-brand" href="/"><img src="/assets/timeback-logo.svg" width="30" height="36" alt="">TimeBack</a><nav class="footer-links" aria-label="Footer"><a href="/about/">Our Team</a><a href="/work/">Community Highlights</a><a href="/host/">For Organizations</a><a href="/chapters/">Get Involved</a><a href="mailto:zackaryxu@jointimeback.org?subject=TimeBack%20inquiry&amp;body=Hi%20Zackary%2C%0D%0A%0D%0AI%20came%20across%20the%20TimeBack%20website%20and%20would%20like%20to%20learn%20more.%20Could%20we%20connect%3F%0D%0A%0D%0AThanks%21">Contact</a></nav></div></footer><dialog class="contact-panel" id="contact-panel" aria-labelledby="contact-panel-title" aria-describedby="contact-panel-description">
